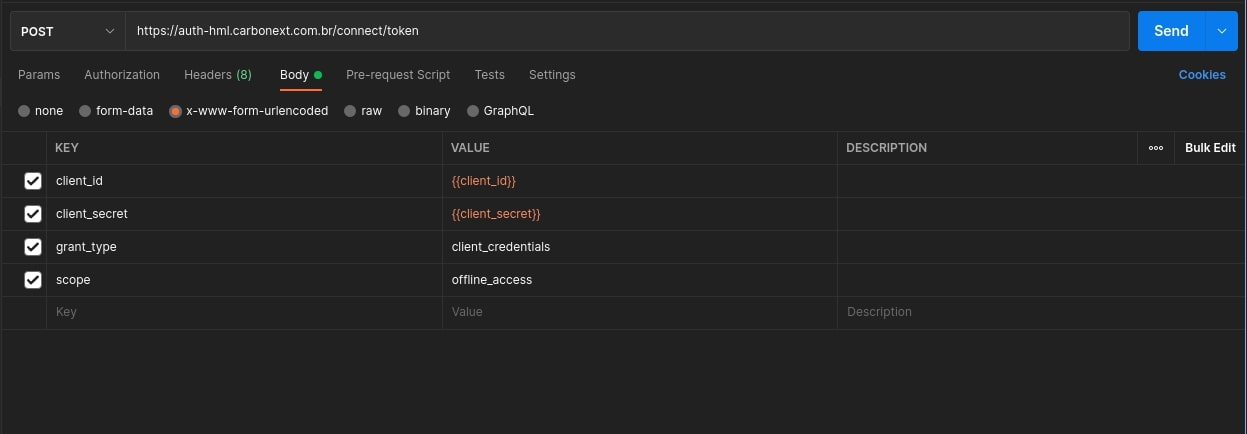
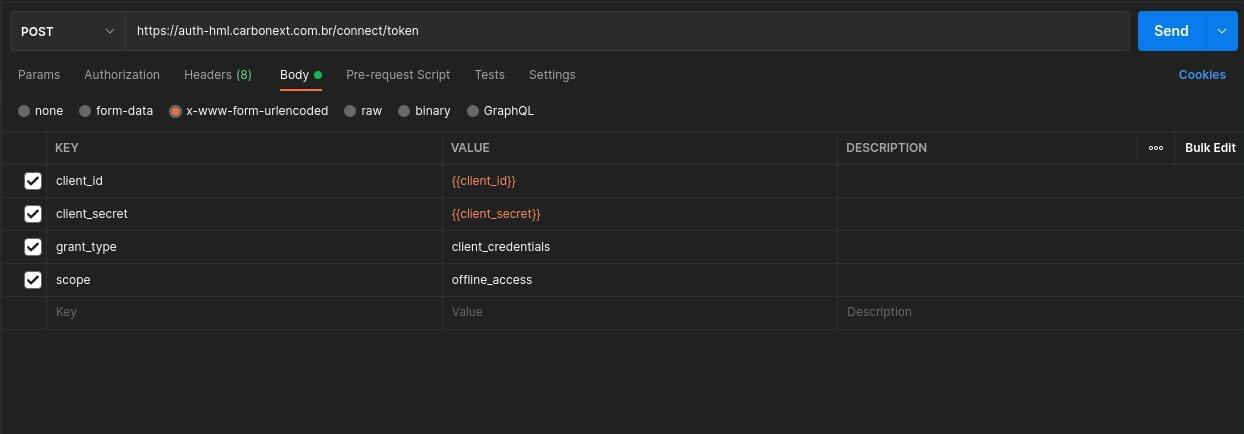
feat: getting started improvements in english

diff --git a/docs/getting-started.md b/docs/getting-started.md
@@ -5,12 +5,23 @@ custom_edit_url: null
 
 # Getting Started
 
-## Creating account
+## Step 1 - Acquiring the credentials
 
-Let's start with a basic authentication so we can evolve with the other requests of our API. Access our [B2B site](https://b2b-hml.carbonext.com.br/auth/signup) in homologation environment to create a test account.
+Let's start with a basic authentication so we can evolve with the other requests of our API.
 
-To generate your keys and make queries in our API, it is necessary to buy at least one credit, you can register a test credit card without authentication
-to buy our VCU, fill in the form on the checkout page with card number `4242 4242 4242 4242` with any **CVC** and any future **expiration date**, add the number of **VCUs** you want to buy, click on **Comprar e continuar** and wait for the purchase confirmation.
+To generate your keys and make queries in our API, it is necessary to buy at least one credit, so let's access our test environment and use a test credit card without authentication to buy our first VCU.
+
+* Go to [https://b2b-hml.carbonext.com.br/auth/signup](https://b2b-hml.carbonext.com.br/auth/signup).
+
+* Fill in all fields.
+
+* Click on **Cadastrar e continuar**.
+
+* Fill the credit card with the number `4242 4242 4242 4242` with any **CVC** and any future **expiration date**.
+
+* Add the number of **VCUs** you want to buy.
+
+* Click on **Comprar e continuar**.
 
 :::tip keys generated
 
@@ -18,9 +29,17 @@ Congratulations you just generated your `client_id` and `client_secret`, save th
 
 :::
 
-## Authorization
+## Step 2 - Acquiring the Access Token
 
-Before making our first request, we need an authorization `token` that we receive through the following endpoint passing our `client_id` and `client_secret` in the body of the request in `urlencode` format.
+Now we need an authorization `token`, for this, let's use the [Postman](https://www.postman.com/downloads/), an application to realize API tests.
+
+After initialize Postman, create a new request with POST method and add the  following URL of our API in test environment.
+
+```md title="BASE URL"
+https://auth-hml.carbonext.com.br/connect/token
+```
+
+After this, bellow the URL click on **Body > x-www-form-urlencoded** and add the keys and they correspondent values following the next example request.
 
 ### Example Request
 
@@ -31,6 +50,12 @@ curl -X POST 'https://auth-hml.carbonext.com.br/connect/token' \
 --data-urlencode 'grant_type=client_credentials' \
 --data-urlencode 'scope=offline_access'
 ```
+
+Fill your correspondent `client_id` and `client_secret`. This way, our request must be filled in as follows.
+
+![Exemplo Postman](/img/examples/postman-1.jpg)
+
+When sending our request, we will have as response the `access_token`, that will allow us to interact with several other endpoints. 
 
 ### Example Response
 
@@ -43,11 +68,23 @@ curl -X POST 'https://auth-hml.carbonext.com.br/connect/token' \
 }
 ```
 
-## Consulting VCU Price
+## Step 3 - Consulting VCU Price
 
 Now, we are ready.
 
-Let's query the VCU price with the following example, passing `vcu-amount` as a parameter and our `access_token` in the **Header** of request.
+Again in Postman, let's create a new request with GET method and add the following URL.
+
+```md title="BASE URL"
+https://api-b2b-hml.carbonext.com.br/v1/prices?vcu-amount=1000000
+```
+
+Note that we are passing the amount of VCUs through the query of our request, being her the `vcu-amount` with the desired value to consult the price.
+
+Just below the URL, click on the **Authorization** option, change the value of **Type** to **Bearer Token** and paste your `access_token` in the field on the right.
+
+Your request must be configured as follows.
+
+![Exemplo Postman](/img/examples/postman-2.jpg)
 
 ### Example Request
 
@@ -56,6 +93,8 @@ curl -X GET 'https://api-b2b-hml.carbonext.com.br/v1/prices?vcu-amount=1000000' 
     -H 'Content-Type: application/json' \
     -H 'Authorization: Bearer {token}'
 ```
+
+We will have as response the following data.
 
 ### Example Response
 
